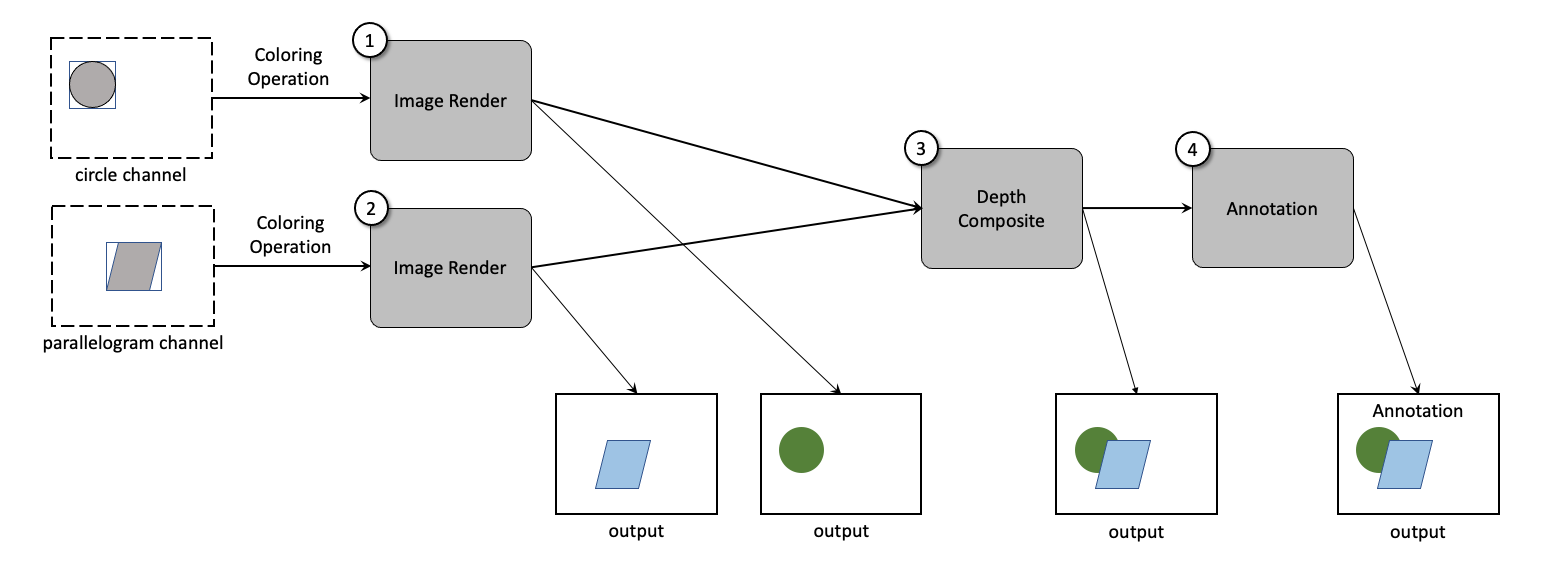
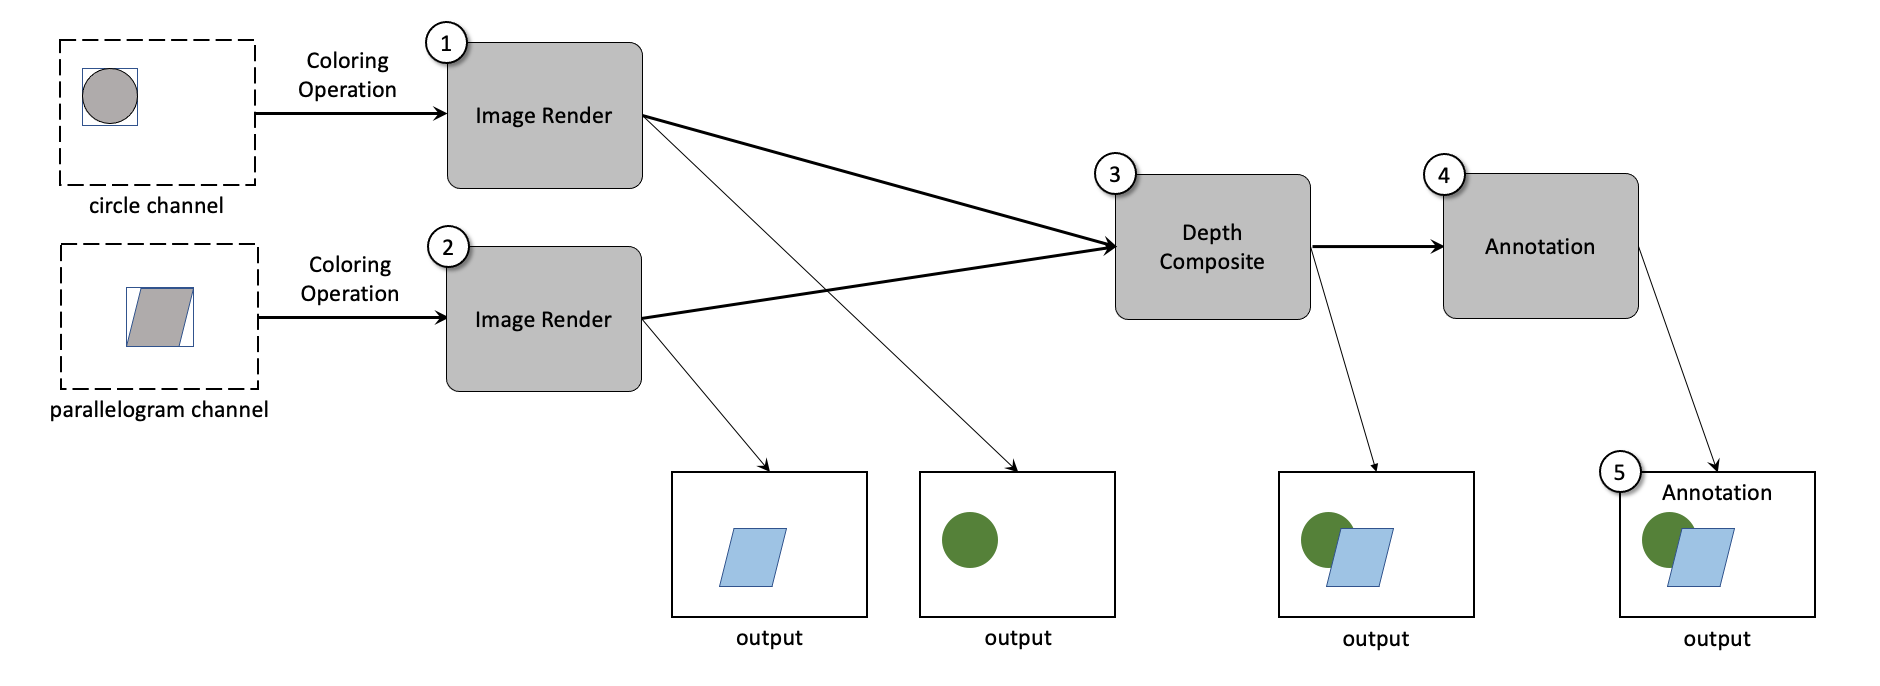
update

diff --git a/doc/cis_proposal.md b/doc/cis_proposal.md
@@ -13,7 +13,7 @@ A single CIS image is the result of coloring and compositing a set of elements t
 <td><img src="composite.png"></img></td>
 <tr>
 <td>
-Diagram of how a Cinema Compositable Image Set will be rendered using Cinema 2.0 filters.
+Diagram of how a Cinema Compositable Image Set will be rendered using Cinema 2.0 filters. Image Render Filters (1,2), take in channel data and render images. A Depth Composite Filter (3), performs a depth composite on its input images, and an Annotation Filter (4) adds annotation to an image. The results of all of these filter operations is a single output image (5).
 </td>
 </tr>
 </table>
